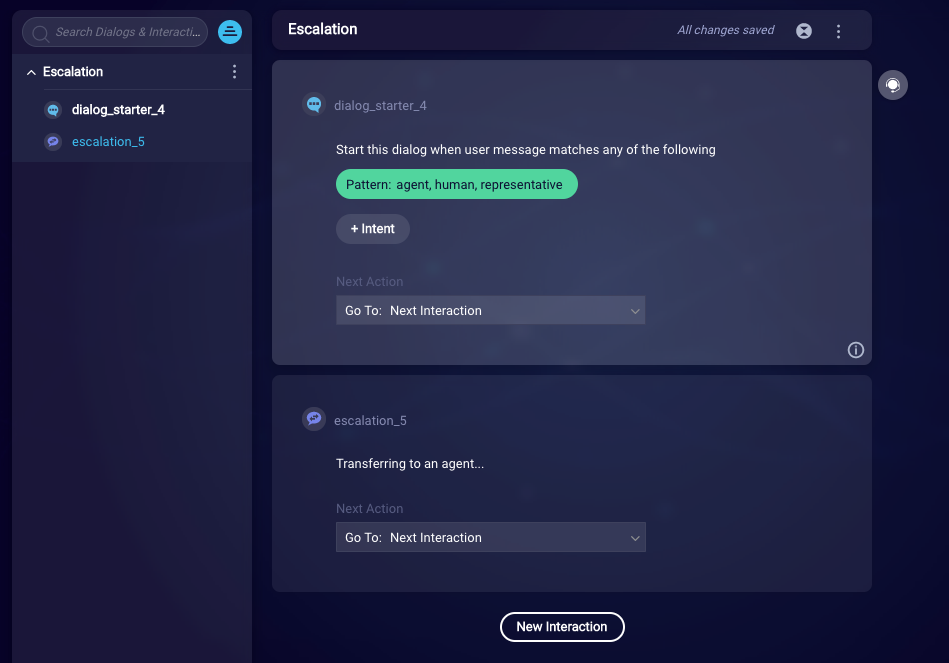
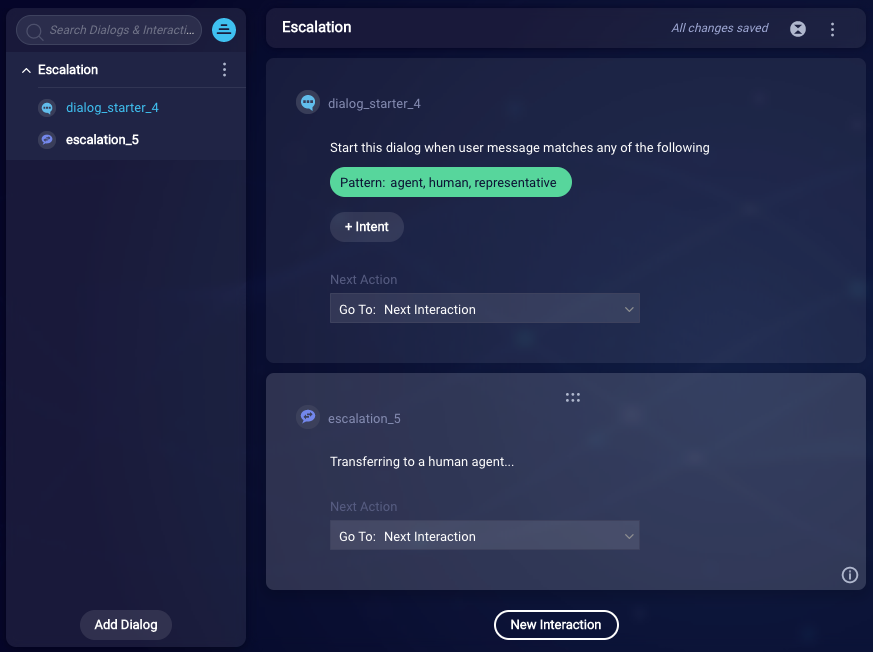
Update tutorial against 6.0

diff --git a/pages/Documents/ConversationalAI/Tutorials&Guides/BotGroups&OtherTechniques/bot-groups-collaboration.md b/pages/Documents/ConversationalAI/Tutorials&Guides/BotGroups&OtherTechniques/bot-groups-collaboration.md
@@ -69,46 +69,46 @@ For the Order bot, follow the same process that you used to create the Greeter b
 
     <img class="fancyimage" style="width:800px" src="img/ConvoBuilder/advtutorial/billing_question_dialog.png">
 
-    As long as you are still in the same account, this link should still remain active. If you have created a new account for your "Many bots" group, you will need to export and import the previously created domain into this new account. 
+    As long as you are still in the same account, this link remains active. If you have created a new account for your "Many bots" group, you will need to export and import the previously created domain into the new account. 
 
-    Back in the Conversation Builder menu, ensure that your Order Bot is nested underneath your "Many bots" group along with the Greeter Bot.
+    Back in the Conversation Builder dashboard of bots, ensure that your Order Bot is nested underneath your "Many bots" group along with the Greeter Bot.
 
     <img class="fancyimage" style="width:800px" src="img/ConvoBuilder/advtutorial/bots_2.png">
 
 ### Step 3: Create the Small Talk Bot
 
-As much of the functionality of our Small Talk Bot has yet to be constructed, we will create this bot from scratch and associate it with our "Many bots" group.
+As much of the functionality of the Small Talk Bot has yet to be constructed, you will create this bot from scratch and associate it with the "Many bots" group.
 
-1. From the Conversation Builder menu, select the **New Bot** button from the upper right corner.
-2. Select a new **Custom Bot** and in the resulting Custom Bot form, fill in the following:
+1. From the Conversation Builder dashboard of bots, click **New Bot** in the upper-right corner.
+2. Select a new **Custom Bot**, click **Next**, and in the resulting Custom Bot form, fill in the following:
     * **Name**: Small Talk Bot
     * **Bot Language**: English - United States
     * **Bot Group**: Many bots
 
 	Click **Create Bot** when finished.
-3. At this time, this bot will only serve to provide Escalation functionality. Delete both the Welcome and Fallback dialogs that are provided on bot creation. 
-4. Select **Add Dialog** from the lower left corner and give our dialog a name of Escalation.
-5. Complete this dialog following the same directions as was done in our Getting Started guide, using the patterns `agent`, `representative`, and `human` to trigger the dialog.
+3. At this time, this bot will only serve to provide Escalation functionality, so delete both the Welcome and Fallback dialogs that are provided on bot creation. 
+4. Click **Add Dialog** in the lower-left corner and give our dialog a name of "Escalation."
+5. Complete the Dialog Starter interaction using the process that you used in the Getting Started tutorial, i.e., using the patterns `agent`, `representative`, and `human` to trigger the dialog.
 
     **Tip**: A quick and easy way to add these patterns is to click the **Library** link, and select the "Help" set of patterns.
 
     <img class="fancyimage" style="width:500px" src="img/ConvoBuilder/advtutorial/library_link1.png">
     <img class="fancyimage" style="width:700px" src="img/ConvoBuilder/advtutorial/library_link2.png">
 
-6. Create a new **Agent Transfer** interaction, modifying the text to read “Transferring to a human agent…”. In the settings menu for this interaction, make sure to enter the corresponding **Human** skill ID for your user profile. Please refer to the Getting Started guide for details on this process.
+6. Create a new **Agent Transfer** interaction, modifying the text to read “Transferring to a human agent…”. In the Interaction Settings for this interaction, make sure to enter the corresponding **Human** skill ID for your user profile. Please refer to the Getting Started tutorial for details on this process.
 
     <img class="fancyimage" style="width:800px" src="img/ConvoBuilder/advtutorial/agent_transfer_interaction.png">
 
-    When complete, back out of the Small Talk bot to the Conversation Builder menu. You should see this newly created bot nested under the "Many Bots" group along with the Greeter and Order bots.
+    When complete, back out of the Small Talk bot to the dashboard of bots. You should see the newly created bot nested under the "Many bots" group along with the Greeter and Order bots.
 
     <img class="fancyimage" style="width:800px" src="img/ConvoBuilder/advtutorial/bots_3.png">
 
 ### Step 4: Deploying the "Many Bots" group
 
-Due to the nature of the Many Bots solution, each bot in our group will need to be deployed with an agent connector in order to see the collaboration in action. To do so, new bot agents will need to be created and assigned to each bot in our group. 
+Due to the nature of the Many Bots solution, each bot in our bot group will need to be deployed with an agent connector in order to see the collaboration in action. To do so, new bot agents will need to be created and assigned to each bot in our group. 
 
 1. Navigate to the **User Management** section of the Conversational Cloud by clicking the **Manage users and skills** icon <img style="width:25px" src="img/ConvoBuilder/advtutorial/icon_user_mgmt.png"> on the left.
-2. From the users menu, select the **+ Add user** button from the lower-left corner.
+2. In the lower-left corner, click **+ Add user**.
 3. Fill out the **User details** form with the following information:
     * **User type**: Bot
     * **Login name**: Greeter Bot
@@ -124,26 +124,26 @@ Due to the nature of the Many Bots solution, each bot in our group will need to 
     * **Assign profile**: Agent
     * **Skills**: Greeter
 
-    Unless you have previously created your Greeter skill, you will need to type it into the skills field to create it. 
+    Unless you have previously created your Greeter skill, you will need to type it into the **Skills** field to create it. 
 
-	When finished, click **Save**.
+	Click **Save**.
 
-4. Repeat the previous steps for both our Order Status and Small Talk bot agents. All fields will remain the same except where you’ll need to replace “Greeter” with either Order Status or Small Talk.
+4. Repeat the previous steps for both our Order Status and Small Talk bot agents. All fields will remain the same except where you’ll need to replace “Greeter” with either "Order Status" or "Small Talk."
 
     <img class="fancyimage" style="width:800px" src="img/ConvoBuilder/advtutorial/users_list.png">
 
-5. Once you’ve created all of your bot user agents, navigate to Campaign Builder and click on your Getting Started campaign. We want to ensure that our Greeter Bot is the one that picks up all new conversations, so edit our existing engagement to point to the Greeter Skill.
+5. Once you’ve created all of your bot user agents, navigate to Campaign Builder, and select the Getting Started campaign. We want to ensure that the Greeter Bot is the one that picks up all new conversations, so edit the existing engagement to point to the Greeter Skill.
 
     <img class="fancyimage" style="width:800px" src="img/ConvoBuilder/advtutorial/engagement.png">
 
-    Click **Edit** in the Engagement section. In the Routing section of the Engagement Settings, set the Specific skill to Greeter.
+    Click **Edit** in the Engagement section. In the Routing section of the Engagement Settings, set the specific skill to "Greeter."
 
     <img class="fancyimage" style="width:800px" src="img/ConvoBuilder/advtutorial/engagement_2.png">
 
-    When finished, click **Publish** in the lower right hand corner.
+    When finished, click **Publish** in the lower-right corner.
 
-6. Once published, navigate back to Conversation Builder. The bot agents that have been created now need to be connected to their associated bot automations. Within each of our 3 bots, navigate to the Agent Connectors menu, select Add Agent Connector, and complete the **Add Agent Connector** form as follows:
-    * **Agent User ID**: The bot agent which corresponds to this automation.
+6. Once published, navigate back to Conversation Builder. The bot agents that have been created now need to be connected to their associated bots. Within each of the 3 bots, click **Agent Connectors** on the menu, click **Add Agent Connector**, and complete the **Add Agent Connector** form as follows:
+    * **Agent User ID**: The bot agent that corresponds to this bot
     * **Role**: Agent
     * **Conversation Type**: Messaging
     * **Deploy to**: Demo
